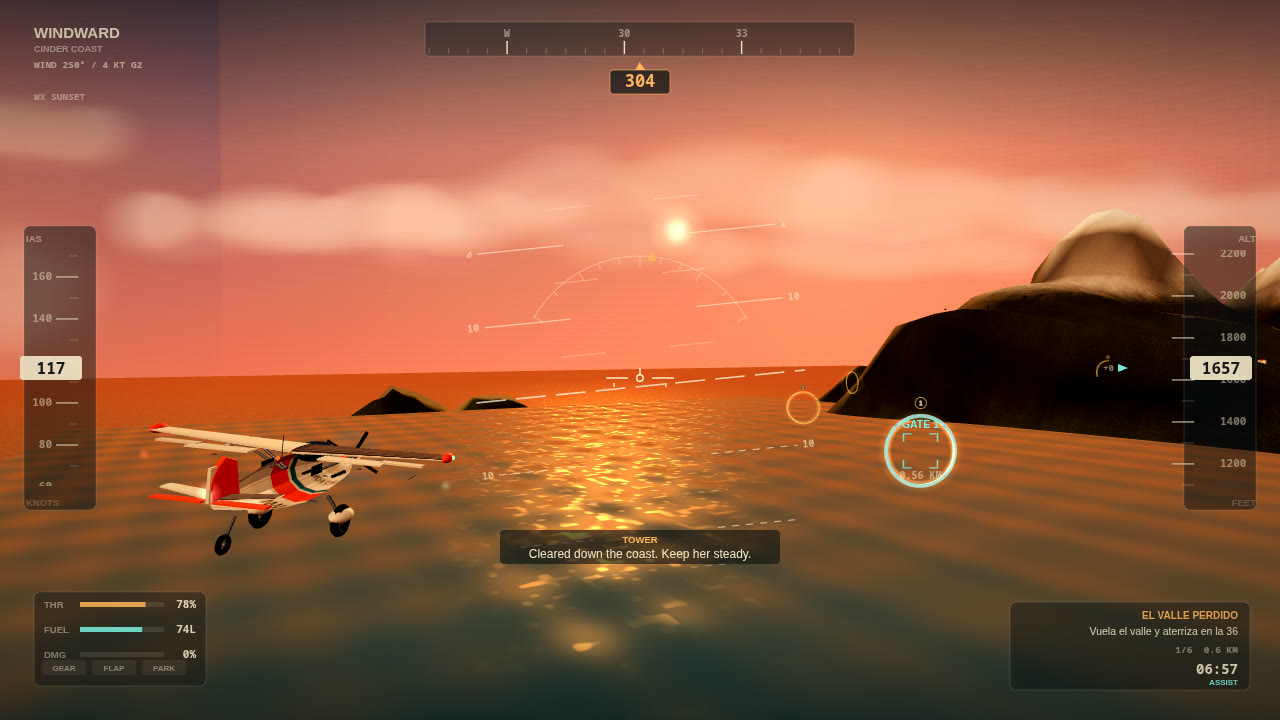
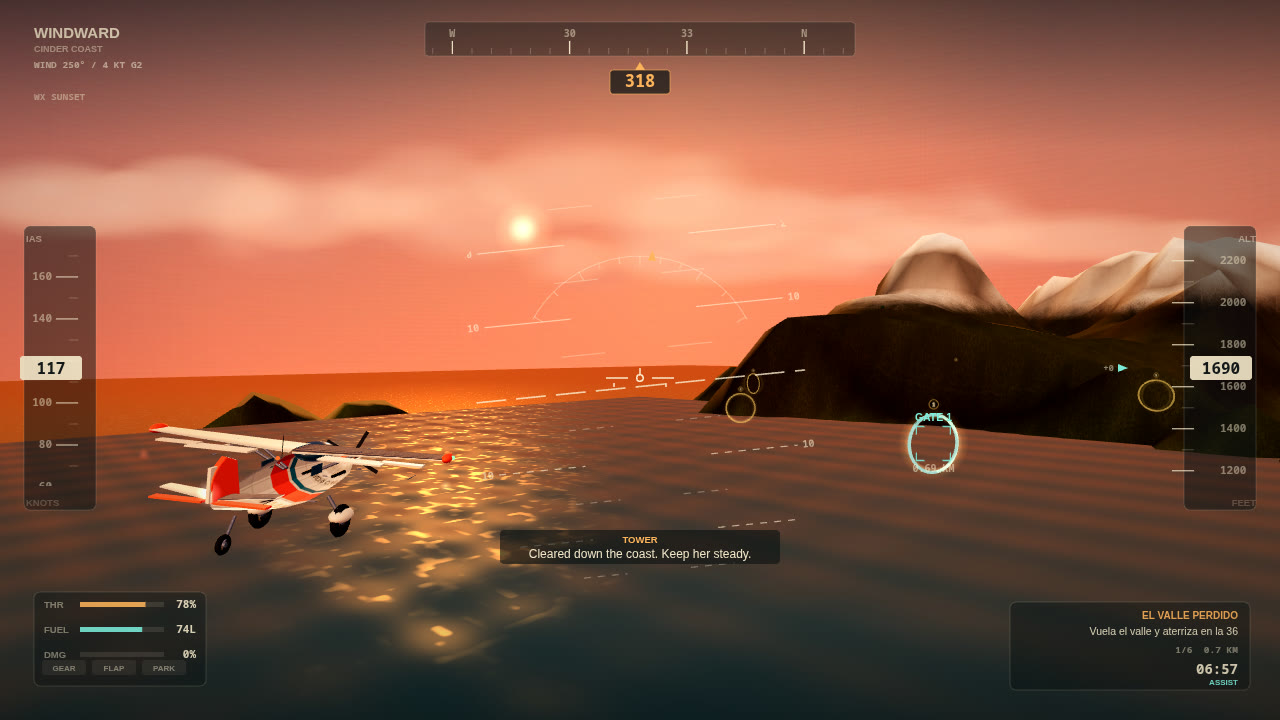
Caldera shore, lake colour and final screenshot staging

diff --git a/game/src/main.js b/game/src/main.js
@@ -245,7 +245,7 @@ const stick = { roll: 0, pitch: 0, yaw: 0 };
 let time = 0;
 
 const titleFlight = {
-  position: new THREE.Vector3(-1980, 545, 1860),
+  position: new THREE.Vector3(-1810, 508, 1520),
   quaternion: new THREE.Quaternion(),
   speed: 60,
   throttle: 0.55,
@@ -259,10 +259,10 @@ const titleFlight = {
   overspeed: false,
   vertical: 0,
   bank: 0,
-  heading: 328,
+  heading: 304,
   gLoad: 1,
 };
-setHeading(titleFlight, 328);
+setHeading(titleFlight, 304);
 titleFlight.quaternion.multiply(new THREE.Quaternion().setFromAxisAngle(new THREE.Vector3(0, 0, 1), -0.08));
 
 function announce(text) {
@@ -471,8 +471,8 @@ function updateTitle(dt) {
   plane.userData.propDisc.rotation.z += dt * 3;
   const fwd = new THREE.Vector3(0, 0, -1).applyQuaternion(titleFlight.quaternion);
   titleFlight.position.addScaledVector(fwd, dt * 20);
-  if (titleFlight.position.distanceTo(new THREE.Vector3(-2500, 545, 700)) > 1500) {
-    titleFlight.position.set(-1980, 545, 1860);
+  if (titleFlight.position.distanceTo(new THREE.Vector3(-2500, 508, 700)) > 1400) {
+    titleFlight.position.set(-1810, 508, 1520);
   }
   rig.update(titleFlight, dt, time);
   weather.update(dt, camera, titleFlight);
@@ -1076,8 +1076,8 @@ const shot = params.get('shot');
 
 function stageShot(name) {
   const setups = {
-    cover: { mission: 2, position: [-1810, 505, 1520], heading: 304, speed: 60, roll: -0.1, pitch: 0.02, camera: 'hero', gate: 0 },
-    cockpit: { mission: 2, position: [-1900, 512, 1620], heading: 304, speed: 57, roll: 0.0, pitch: 0.02, camera: 'cockpit', gate: 0 },
+    cover: { mission: 2, position: [-1900, 515, 1700], heading: 318, speed: 60, roll: -0.1, pitch: 0.02, camera: 'hero', gate: 0 },
+    cockpit: { mission: 2, position: [-1900, 512, 1700], heading: 318, speed: 57, roll: 0.0, pitch: 0.02, camera: 'cockpit', gate: 0 },
     canyon: { mission: 4, position: [canyonPoint(-1000), 0, -1000], heading: 358, speed: 72, roll: -0.05, pitch: 0.01, camera: 'chase', gate: 4 },
     landing: { mission: 3, position: [-8, 66, 700], heading: 0, speed: 42, roll: 0.0, pitch: -0.05, camera: 'chase', gate: 4, gear: true, flaps: 2 },
     storm: { mission: 7, position: [0, 210, 2300], heading: 0, speed: 60, roll: -0.04, pitch: 0.02, camera: 'hero', gate: 0 },

diff --git a/game/src/world/weather.js b/game/src/world/weather.js
@@ -19,11 +19,11 @@ const PRESETS = {
     wind: { from: 250, speed: 3, gust: 1.2 },
   },
   sunset: {
-    label: 'SUNSET', bg: 'sunset', bgInt: 1, sunAzimuth: 300, sunElevation: 11.5, envKind: 'sunset',
+    label: 'SUNSET', bg: 'sunset', bgInt: 1, bgBlur: 0, sunAzimuth: 300, sunElevation: 11.5, envKind: 'sunset',
     fog: '#d89d7c', fogNear: 1700, fogFar: 15500,
-    sunColor: '#ffbb85', sunIntensity: 2.5, hemiSky: '#ffd0ab', hemiGround: '#5c3d33', hemiIntensity: 1.25,
+    sunColor: '#ffb178', sunIntensity: 2.6, hemiSky: '#ffd3b0', hemiGround: '#5c3d33', hemiIntensity: 1.2,
     seaDeep: '#1d5162', seaShallow: '#69b4ad', seaSky: '#ffc08a', seaFog: '#d59a76', seaFogNear: 700, seaFogFar: 13000,
-    rain: false, snow: false, snowGround: 0, lightning: false, env: 0.05, landingLight: false,
+    rain: false, snow: false, snowGround: 0, lightning: false, env: 0.14, landingLight: false,
     wind: { from: 250, speed: 4, gust: 1.5 },
   },
   windy: {
@@ -367,6 +367,7 @@ export function createWeather({ scene, sky, sea }) {
     else if (p.bg === 'sunset') tex = backdrops.sunset;
     if (tex) {
       scene.background = tex;
+      scene.backgroundBlurriness = p.bgBlur ?? 0;
       scene.backgroundIntensity = p.bgInt;
     } else if (photo) {
       scene.background = photo;

diff --git a/game/src/world/lake.js b/game/src/world/lake.js
@@ -11,9 +11,9 @@ export function createLake() {
   const uniforms = {
     uTime: { value: 0 },
     uSun: { value: sunDirection() },
-    uDeep: { value: new THREE.Color('#1b4b5e') },
-    uShallow: { value: new THREE.Color('#5aa9aa') },
-    uSky: { value: new THREE.Color('#ffb47a') },
+    uDeep: { value: new THREE.Color('#173f52') },
+    uShallow: { value: new THREE.Color('#4e9aa0') },
+    uSky: { value: new THREE.Color('#e0a184') },
     uSunColor: { value: new THREE.Color('#ffd6a0') },
   };
   const mat = new THREE.ShaderMaterial({

diff --git a/game/src/world/terrain.js b/game/src/world/terrain.js
@@ -54,7 +54,7 @@ export function sampleHeight(x, z) {
   const lx = (x - LAKE.x) / LAKE.rx;
   const lz = (z - LAKE.z) / LAKE.rz;
   const lakeDist = Math.sqrt(lx * lx + lz * lz);
-  const bowl = 1 - smoothstep(1.0, 1.2, lakeDist);
+  const bowl = 1 - smoothstep(0.97, 1.08, lakeDist);
   if (bowl > 0.001) h = lerp(h, 286, bowl * 0.985);
   // The caldera rim: a ring of sharp volcanic peaks beyond the bowl, with enough irregularity
   // that the skyline is a silhouette rather than a smooth dome.
